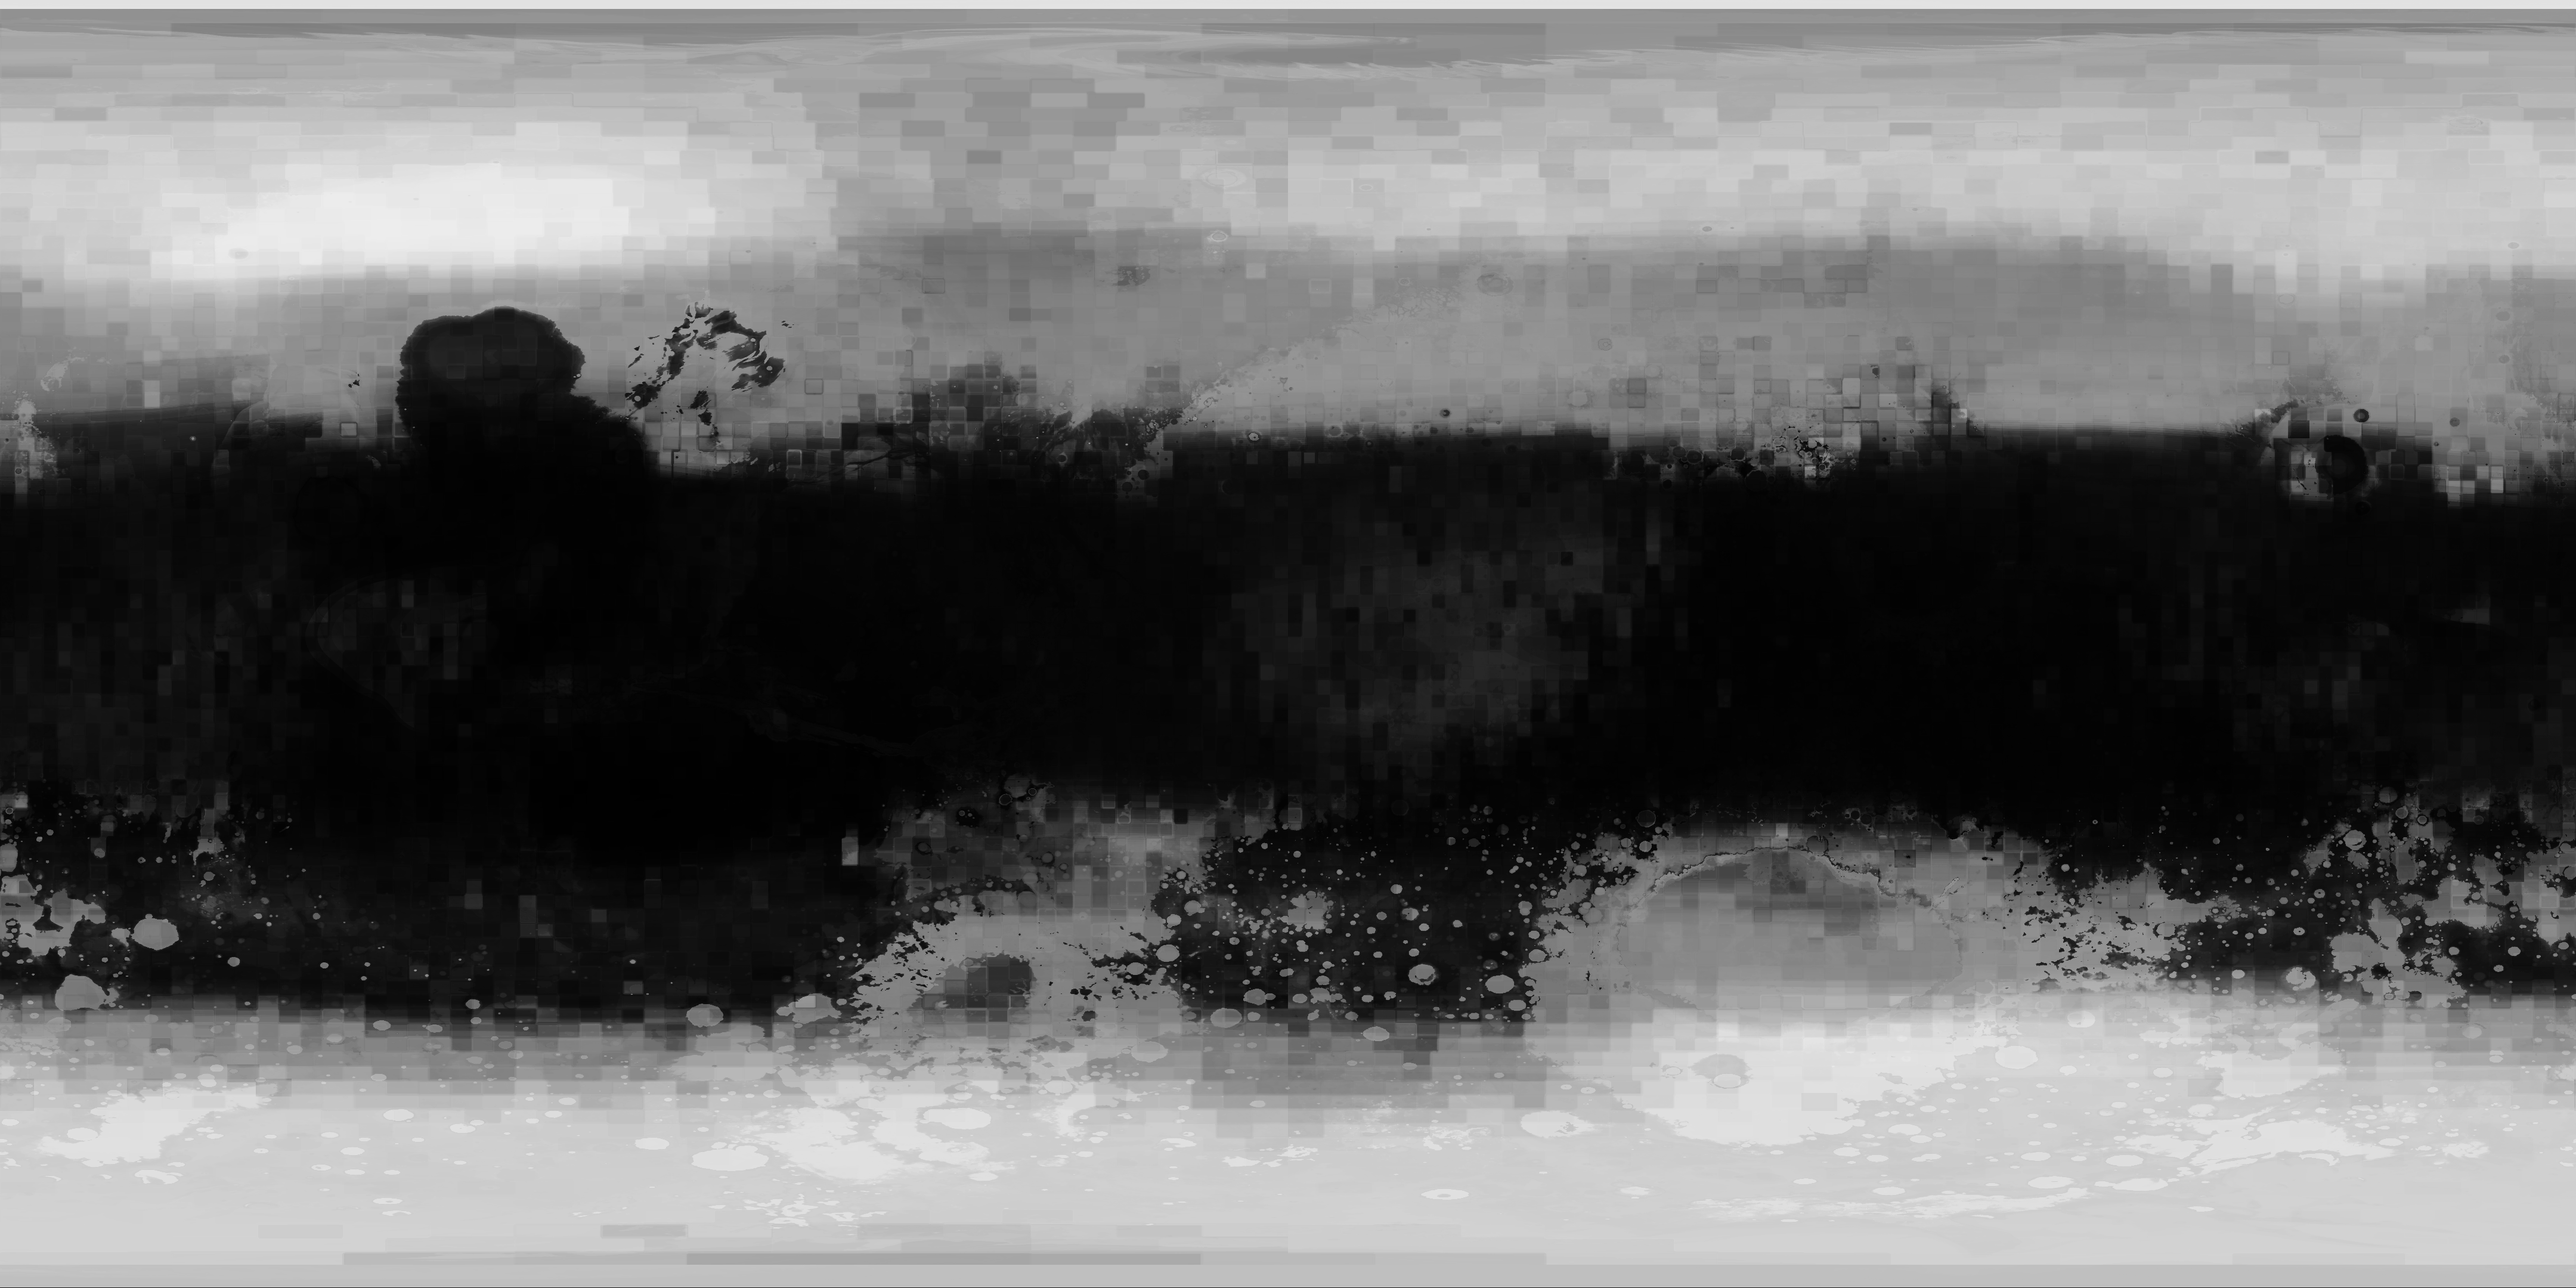
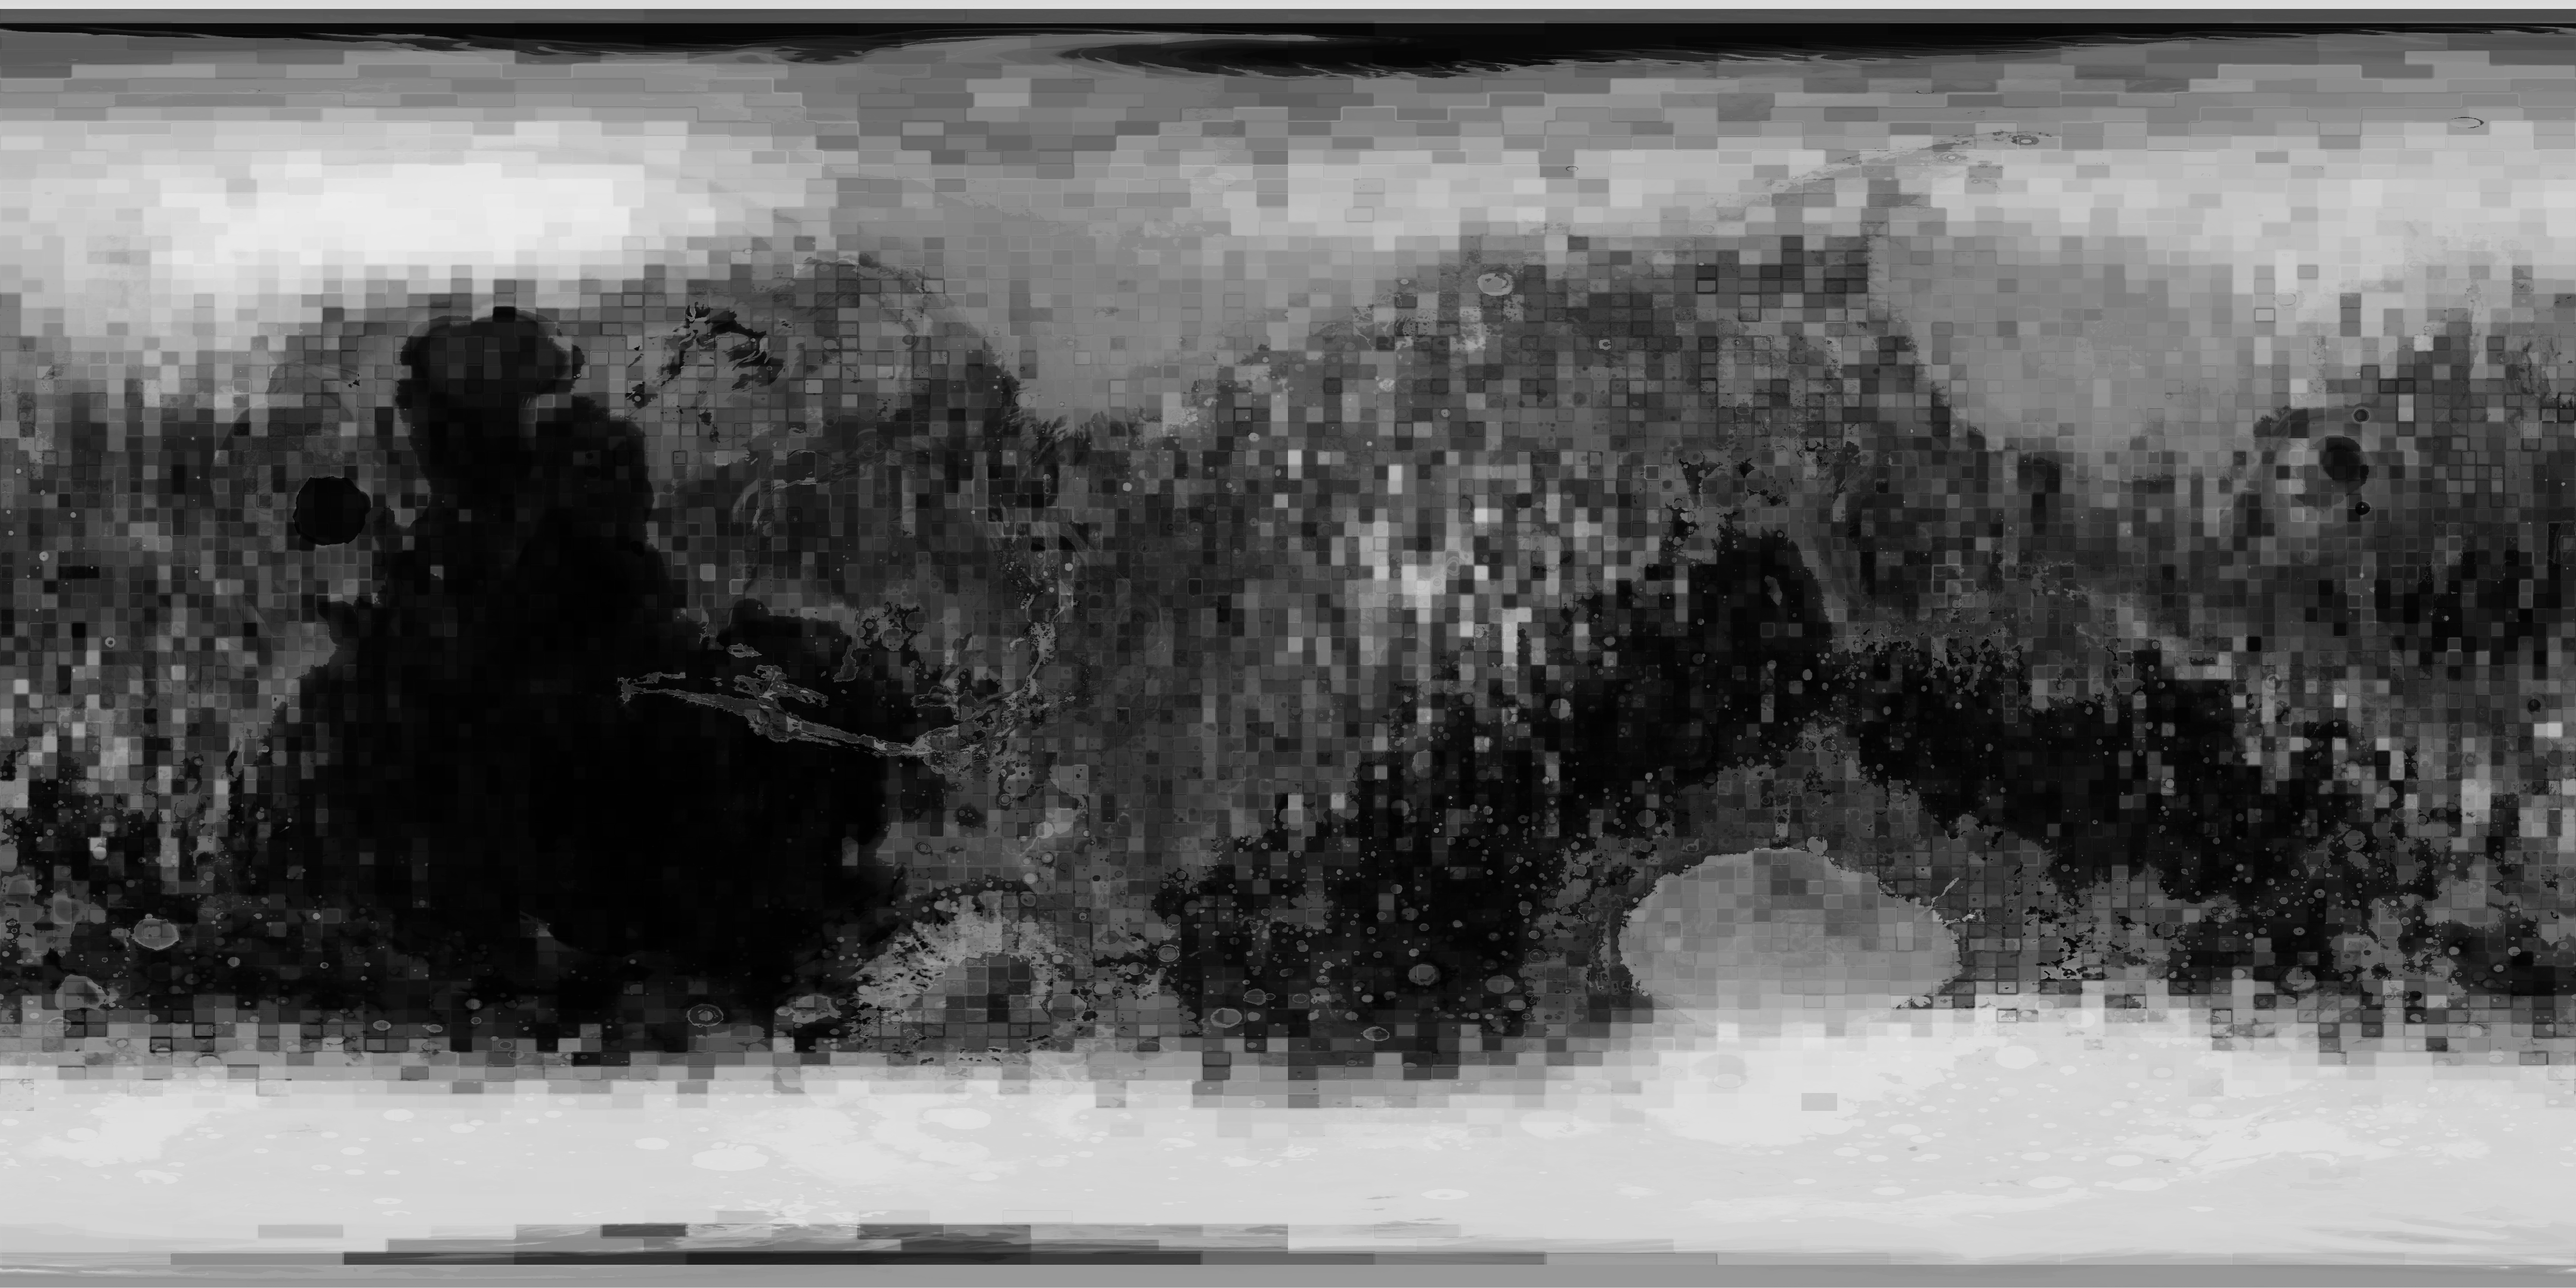
Regenerate tiles and update footer for v2.1 model
Tiles re-exported from the no-areoid v2.1 inference. Footer updated
to reflect the enriched validation: AUC 0.93 / Brier 0.08 against
1,356 globally distributed hard labels, with Brier 0.04 in the tropics.

diff --git a/web/index.html b/web/index.html
@@ -139,13 +139,16 @@
 
   <div class="panel" id="footer">
     LightGBM ensemble (5 seeds) trained on <b>~225,000</b> SWIM ice-consistency
-    cells as soft labels, predicting from MOLA topography + areoid and Odyssey
-    Neutron Spectrometer (epi/thermal/fast). Validation:
-    spatially-held-out SWIM blocks <b>AUC 0.87</b>; against the 177 hand-curated
-    + Dundas hard labels <b>AUC 0.85, Brier 0.20</b>.
+    cells as soft labels, predicting from MOLA topography and Odyssey Neutron
+    Spectrometer (epi/thermal/fast). Mars areoid dropped after a sanity check
+    showed it carried partial latitude correlation. Validation against
+    <b>1,356 globally distributed hard labels</b> (Dundas crater scarps + Daubar
+    new impacts + 7 in-situ landers) gives <b>AUC 0.93, Brier 0.08</b>; on the 996
+    tropical sites Daubar found dry, <b>Brier 0.04</b> — the model correctly
+    predicts low ice probability there even though those craters are not in training.
     Uncertainty = ensemble disagreement only — no proximity-to-label term, so
     "uncertain" means the model itself is unsure, not just that no rover went there.
-    <br /><code>v2 shallow</code> · 0–5&thinsp;m only · SHARAD reflectors deferred to deep model.
+    <br /><code>v2.1 shallow</code> · 0–5&thinsp;m only · SHARAD reflectors deferred to deep model.
   </div>
 
 <script>
